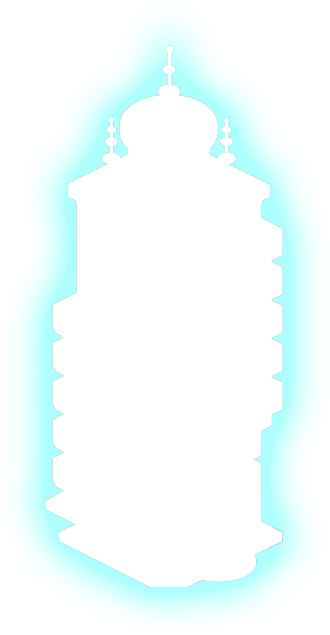
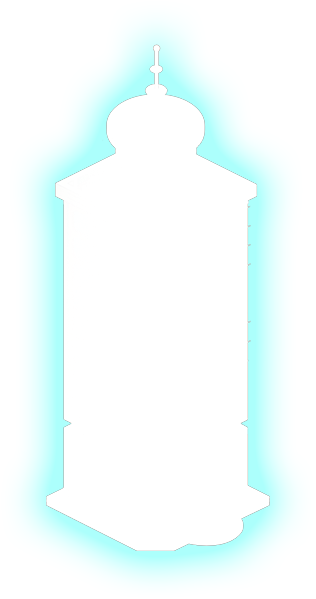
tariff + 2 state

diff --git a/src/buildings/config.ts b/src/buildings/config.ts
@@ -36,8 +36,12 @@ import libraryTowerLevel2Stroke from './library/2-stroke.png';
 import libraryTowerLevel3Stroke from './library/3-stroke.png';
 import observatoryTowerLevel2Img from './observatory/2.png';
 import observatoryTowerLevel2Stroke from './observatory/2-stroke.png';
+import tariffTowerLevel1Img from './tariff/1.png';
+import tariffTowerLevel1Stroke from './tariff/1-stroke.png';
 import tariffTowerLevel2Img from './tariff/2.png';
 import tariffTowerLevel2Stroke from './tariff/2-stroke.png';
+import tariffTowerLevel3Img from './tariff/3.png';
+import tariffTowerLevel3Stroke from './tariff/3-stroke.png';
 import theaterTowerLevel2Img from './theater/2.png';
 import theaterTowerLevel2Stroke from './theater/2-stroke.png';
 import theaterTowerLevel3Img from './theater/3.png';
@@ -328,32 +332,30 @@ export class BuildingsService {
       title: 'Мобильный интернет',
       coords: [3867, 1809],
       zIndex: ZIndexes.BUILDING_ONE_LEVEL,
-      maxLevel: TowerLevel.mid,
+      maxLevel: TowerLevel.high,
       [TowerLevel.low]: {
-        // TODO: не настоящая картинка
-        img: musicTowerLevel1Img,
-        width: 1,
-        height: 2,
-        shadowImg: musicTowerLevel1Stroke,
-        areaCoords: '128,57,418,291',
-        position: [42.2, 36.9],
+        img: tariffTowerLevel1Img,
+        width: 329,
+        height: 559,
+        shadowImg: tariffTowerLevel1Stroke,
+        areaCoords: '51,53,276,505',
+        position: [28.2, 48.2],
       },
       [TowerLevel.mid]: {
         img: tariffTowerLevel2Img,
-        width: 330,
-        height: 635,
+        width: 316,
+        height: 599,
         shadowImg: tariffTowerLevel2Stroke,
-        areaCoords: '55,92,284,570',
-        position: [27, 48.2],
+        areaCoords: '44,39,272,550',
+        position: [27.4, 48.2],
       },
       [TowerLevel.high]: {
-        // TODO: не настоящая картинка
-        img: eggTowerLevel3Img,
-        width: 384,
-        height: 531,
-        shadowImg: eggTowerLevel3Stroke,
-        areaCoords: '320,441,50,45',
-        position: [31.5, 50.9],
+        img: tariffTowerLevel3Img,
+        width: 330,
+        height: 635,
+        shadowImg: tariffTowerLevel3Stroke,
+        areaCoords: '55,92,284,570',
+        position: [26.7, 48],
       },
     },
     [TowersTypes.THEATER]: {

diff --git a/src/effector/towers-progress/store.ts b/src/effector/towers-progress/store.ts
@@ -60,7 +60,7 @@ const initState: TowersProgressStoreType = {
     progress: 0,
   },
   [TowersTypes.TARIFF]: {
-    level: TowerLevel.mid,
+    level: TowerLevel.low,
     progress: 0,
   },
   [TowersTypes.THEATER]: {
